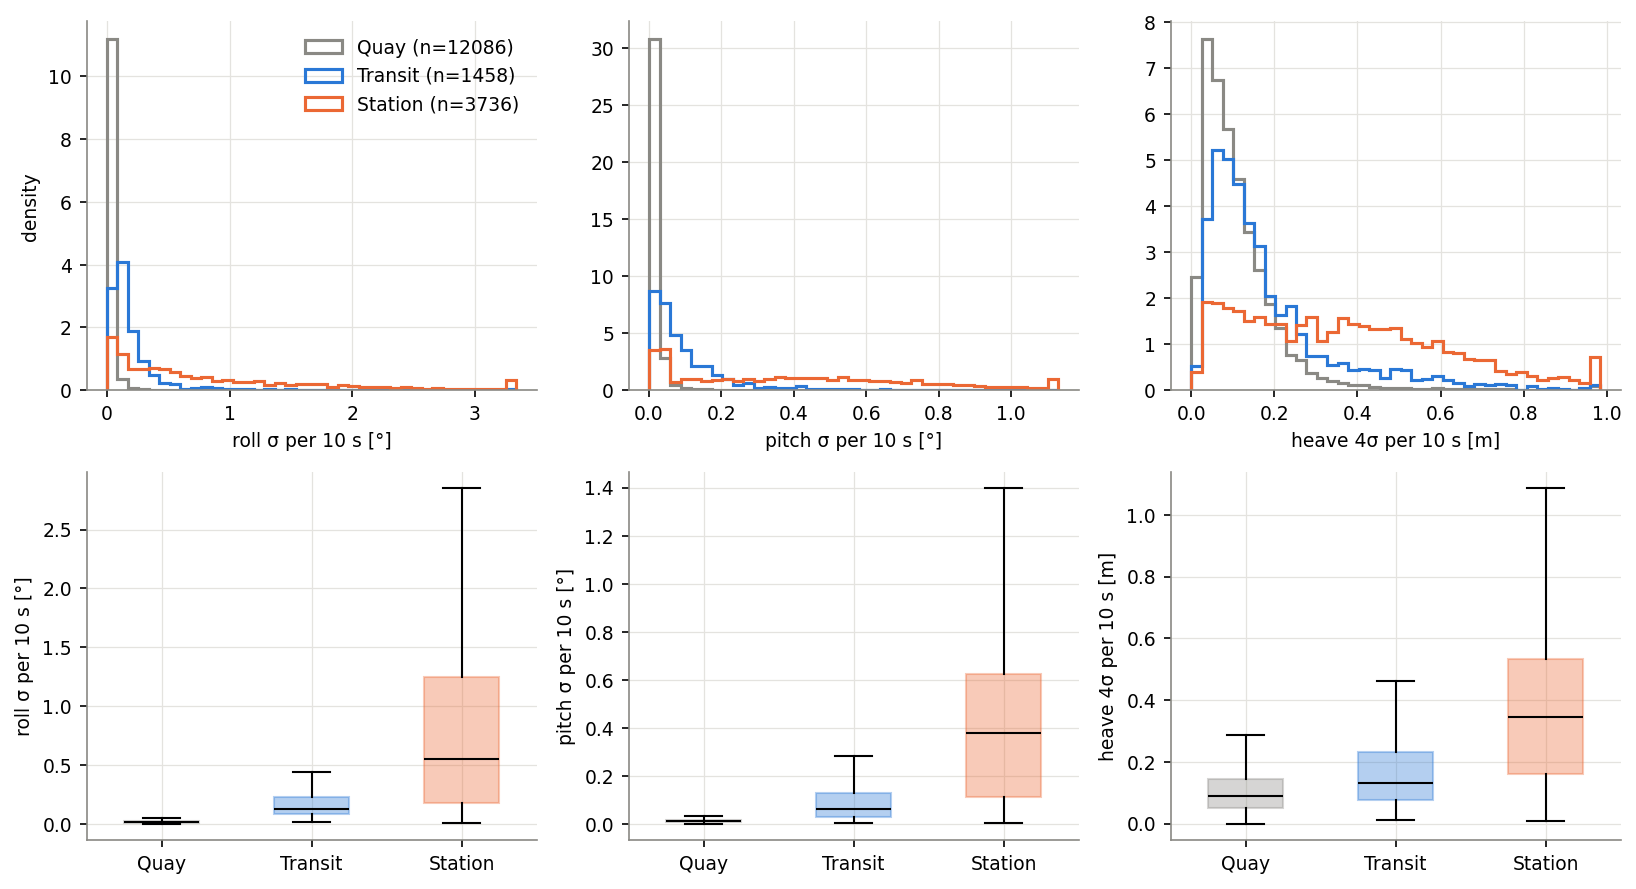
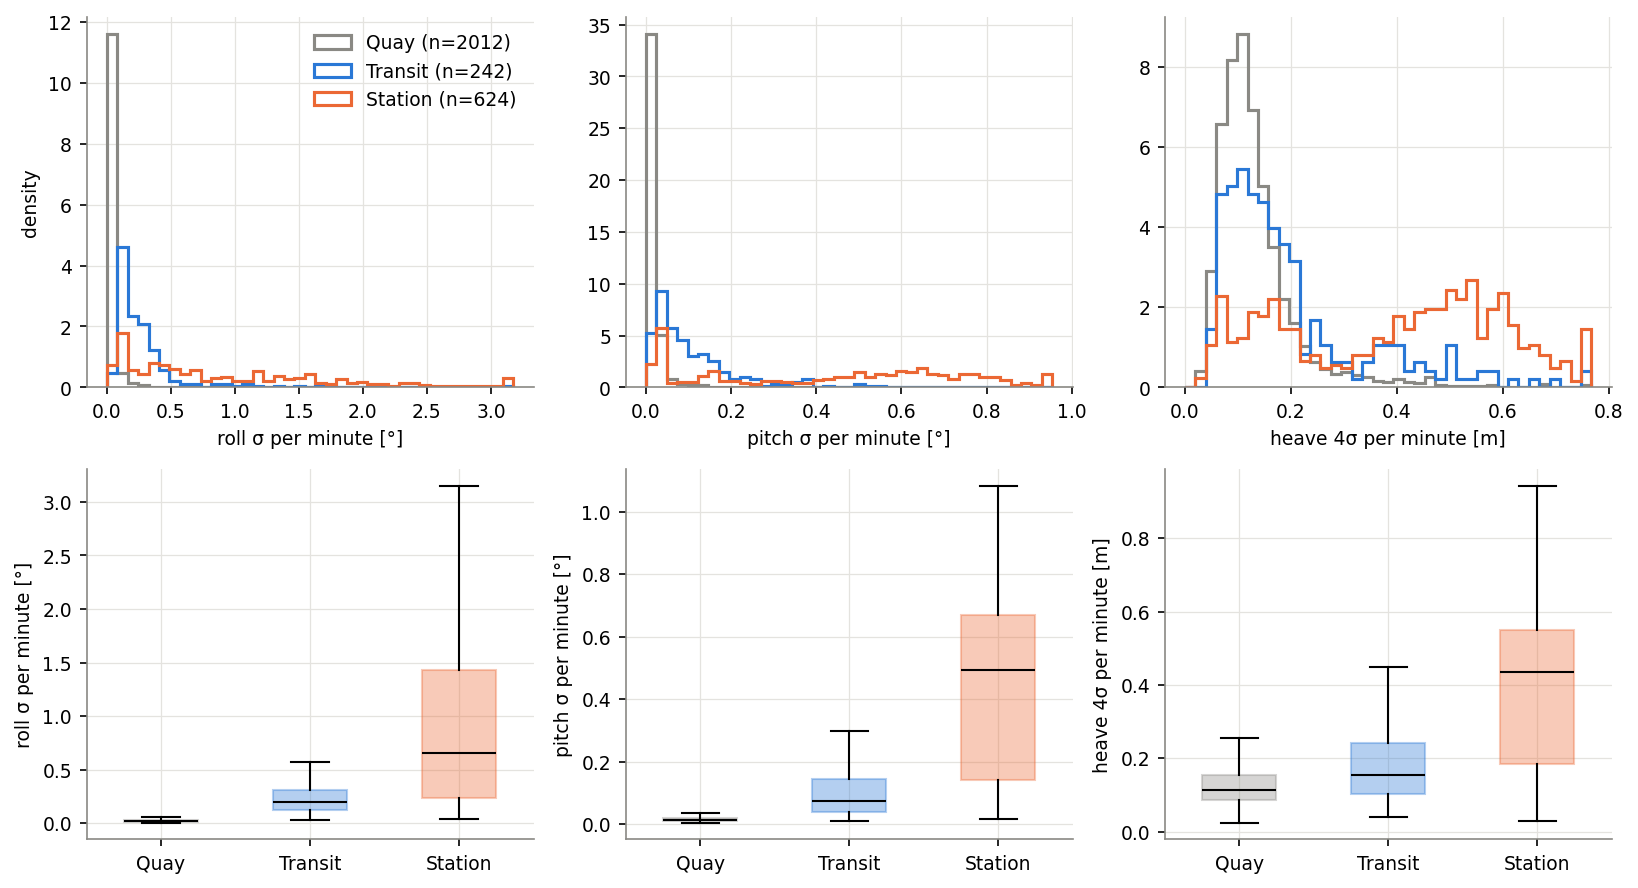
new plots

diff --git a/tmr12/eda.py b/tmr12/eda.py
@@ -15,6 +15,7 @@ import matplotlib.pyplot as plt
 import matplotlib.ticker
 import numpy as np
 import pandas as pd
+from scipy import signal
 
 from tmr12 import data
 
@@ -32,6 +33,8 @@ plt.rcParams.update({'figure.dpi': 110, 'savefig.dpi': 150, 'font.size': 9,
 
 M_PER_DEG_LAT = 111_320   # metres per degree latitude (good enough for a few hundred metres)
 MAX_BUOY_KM = 3           # a buoy further away than this does not describe the waves at the ship
+FS = 100                  # raw sample rate [Hz]
+HIGHPASS_S = 30           # keep motions faster than this period [s]: waves, not tide or slow GNSS drift
 
 
 def save(fig, name):
@@ -65,6 +68,70 @@ def local_xy(lat, lon, lat0, lon0):
     return north, east
 
 
+def minute_stats(s):
+    """1-minute windows (6 files = 6000 samples) for the overview figures.
+    Roll and pitch: std over the whole minute (data.pooled), so each value covers several wave periods,
+    unlike one 10 s file that holds only one or two. Heave: see the comment below; the exact wave
+    heave per block comes from the raw data (raw_block_motion)."""
+    rows = []
+    for t, g in s.groupby(s.time.dt.floor('1min')):
+        if len(g) < 6:
+            continue
+        rows.append({'time': t, 'speed_kn': g.speed_kn.mean(), 'heading': data.circmean(g.heading),
+                     'roll_std': data.pooled(g, 'roll'), 'pitch_std': data.pooled(g, 'pitch'),
+                     # heave: only the variation inside each 10 s file, so slow GNSS drift is left out
+                     'heave_hs_m': 4 * data.within(g, 'height') / 100, 'phase': g.phase.mode().iloc[0]})
+    m = pd.DataFrame(rows)
+    m['kind'] = m.phase.map(phase_kind)
+    return m
+
+
+# ---------- raw 100 Hz data ----------
+
+def raw_files(day_dir):
+    """All raw 10 s files of one day, indexed by their start time (file names are in local time)."""
+    files = sorted(Path(day_dir).glob('*/*.csv'))
+    t = pd.to_datetime([f.stem for f in files], format='%Y%m%d%H%M%S')
+    t = t.tz_localize(data.TZ, ambiguous='NaT', nonexistent='NaT')   # the DST night gives NaT
+    return pd.Series(files, index=t)[t.notna()]
+
+
+def raw_block(files, start, end):
+    """Glue the raw files of one block into one continuous 100 Hz time series."""
+    sel = files[(files.index >= start - pd.Timedelta('15s')) & (files.index < end)]
+    d = pd.concat([pd.read_csv(f, sep=';', header=None, names=data.COLS) for f in sel])
+    d = d[(d.t >= start.timestamp()) & (d.t < end.timestamp())]
+    return d.sort_values('t').reset_index(drop=True)
+
+
+def wave_part(x):
+    """Remove the mean, trend and everything slower than HIGHPASS_S (tide, GNSS drift, slow list)."""
+    sos = signal.butter(4, 1 / HIGHPASS_S, 'highpass', fs=FS, output='sos')
+    return signal.sosfiltfilt(sos, signal.detrend(np.asarray(x, dtype=float)))
+
+
+def spectrum(x):
+    """Power spectral density (Welch, 120 s segments) and the peak period between 2 and 25 s."""
+    f, psd = signal.welch(x, fs=FS, nperseg=120 * FS)
+    ok = (f > 1 / 25) & (f < 1 / 2)
+    return f, psd, 1 / f[ok][psd[ok].argmax()]
+
+
+def raw_block_motion(d):
+    """Wave-induced motion of one block from the raw 100 Hz data: std, heave 4σ and peak periods."""
+    out, spectra = {}, {}
+    for col, name in [('roll', 'roll'), ('pitch', 'pitch'), ('height_cm', 'heave')]:
+        x = wave_part(d[col] / 100 if col == 'height_cm' else d[col])   # height: cm -> m
+        f, psd, tp = spectrum(x)
+        spectra[name] = (f, psd)
+        out[f'{name}_tp_s'] = tp
+        if name == 'heave':
+            out['heave_hs_wave'] = 4 * x.std()
+        else:
+            out[f'{name}_std_wave'] = x.std()
+    return out, spectra
+
+
 # ---------- tables ----------
 
 def nearest_buoy(lat, lon, b):
@@ -73,12 +140,14 @@ def nearest_buoy(lat, lon, b):
     return d.index[0].split()[1], d.iloc[0]
 
 
-def dp_blocks(s, p, b):
+def dp_blocks(s, p, b, files=None, spectra=None):
     """One row per steady-heading block at a DP station: ship motion, footprint, waves and wind.
 
     The heading blocks come from data.heading_blocks, using the buoy nearest to each station.
     Added here: footprint size (from the 10 s mean positions) and wind from the buoy.
-    Stations further than MAX_BUOY_KM from every buoy keep their ship values, but get no waves/wind."""
+    Stations further than MAX_BUOY_KM from every buoy keep their ship values, but get no waves/wind.
+    With the raw files (files = raw_files(day dir)) the wave-induced motion is also computed from the
+    100 Hz data of the whole block; spectra (a dict) then collects the spectra per block."""
     rows = []
     for st in p[p.phase.str.startswith('Station')].itertuples():
         short, km = nearest_buoy(st.lat, st.lon, b)
@@ -96,6 +165,11 @@ def dp_blocks(s, p, b):
             if km > MAX_BUOY_KM:   # too far away: drop the buoy values for this block
                 short, w, wind_from = 'none', w.iloc[0:0], np.nan
                 row.update({k: np.nan for k in ['Hm0', 'Tp', 'Mdir', 'ThTp', 'rel_Mdir', 'rel_ThTp']})
+            if files is not None:
+                motion, spec = raw_block_motion(raw_block(files, blk.start, blk.end))
+                row.update(motion)
+                if spectra is not None:
+                    spectra[(blk.start, blk.end)] = spec
             rows.append({**row, 'buoy': short, 'buoy_km': km,
                          'footprint_r95_m': np.percentile(radius, 95),   # 95 % of positions inside this circle
                          'footprint_std_m': np.sqrt(north.var() + east.var()),
@@ -158,7 +232,8 @@ def fig_tracks(days, b):
 
 
 def fig_day_timeseries(day, s, p):
-    """One day at a glance: speed, heading, roll and heave over time, stations shaded."""
+    """One day at a glance: speed, heading, roll and heave over time (1-minute values), stations shaded."""
+    s = minute_stats(s)
     signals = [('speed_kn', 'speed [kn]'), ('heading', 'heading [°]'),
                ('roll_std', 'roll σ [°]'), ('heave_hs_m', 'heave 4σ [m]')]
     fig, axes = plt.subplots(len(signals), 1, figsize=(9, 7), sharex=True)
@@ -176,9 +251,10 @@ def fig_day_timeseries(day, s, p):
 
 
 def fig_univariate(s_all):
-    """Distribution of the ship motion per phase type: histograms (top) and box plots (bottom)."""
-    cols = [('roll_std', 'roll σ per 10 s [°]'), ('pitch_std', 'pitch σ per 10 s [°]'),
-            ('heave_hs_m', 'heave 4σ per 10 s [m]')]
+    """Distribution of the ship motion per phase type (1-minute values): histograms and box plots."""
+    s_all = pd.concat([minute_stats(g) for _, g in s_all.groupby('day')], ignore_index=True)
+    cols = [('roll_std', 'roll σ per minute [°]'), ('pitch_std', 'pitch σ per minute [°]'),
+            ('heave_hs_m', 'heave 4σ per minute [m]')]
     fig, axes = plt.subplots(2, len(cols), figsize=(11, 6))
     for j, (col, label) in enumerate(cols):
         hi = s_all[col].quantile(0.995)   # cut the 0.5 % largest so the bulk is visible
@@ -269,15 +345,17 @@ def fig_footprints(s_all, blocks):
 
 def fig_vs_heading(blocks):
     """Bivariate: footprint, roll and pitch per heading block vs the relative wave heading."""
-    cols = [('footprint_r95_m', 'footprint R95 [m]'), ('roll_std', 'roll σ [°]'), ('pitch_std', 'pitch σ [°]')]
+    cols = [('footprint_r95_m', 'footprint R95 [m]'), ('roll_std_wave', 'roll σ [°]'),
+            ('pitch_std_wave', 'pitch σ [°]'), ('heave_hs_wave', 'heave 4σ [m]')]
     blocks = blocks[blocks.buoy != 'none']
-    fig, axes = plt.subplots(1, len(cols), figsize=(11, 3.4))
+    fig, axes = plt.subplots(2, 2, figsize=(9, 6.5))
+    axes = axes.flatten()
     for ax, (col, label) in zip(axes, cols):
         for short, colour in BUOY_COLOURS.items():
             g = blocks[blocks.buoy == short]
             ax.scatter(g.abs_rel_wave, g[col], s=g.minutes * 1.5, color=colour, alpha=0.8,
                        edgecolor='white', lw=0.5, label=f'at buoy {short}')
-        ax.set(xlabel='|relative wave heading| [°]  (0 = head, 90 = beam)', ylabel=label, xlim=(-5, 185))
+        ax.set(xlabel='|relative wave heading| [°] (0 = head, 90 = beam)', ylabel=label, xlim=(-5, 185))
         ax.set_xticks([0, 45, 90, 135, 180])
     axes[0].legend(frameon=False)
     fig.tight_layout()
@@ -287,8 +365,9 @@ def fig_vs_heading(blocks):
 def fig_correlation(blocks):
     """Multivariate: correlation matrix of the heading-block variables."""
     cols = {'Hm0': 'Hm0', 'Tp': 'Tp', 'wind_ms': 'wind speed', 'abs_rel_wave': '|rel. wave dir.|',
-            'abs_rel_wind': '|rel. wind dir.|', 'roll_std': 'roll σ', 'pitch_std': 'pitch σ',
-            'heave_hs_m': 'heave 4σ', 'footprint_r95_m': 'footprint R95', 'heading_std_deg': 'heading σ',
+            'abs_rel_wind': '|rel. wind dir.|', 'roll_std_wave': 'roll σ', 'pitch_std_wave': 'pitch σ',
+            'heave_hs_wave': 'heave 4σ', 'heave_tp_s': 'heave peak period', 'footprint_r95_m': 'footprint R95',
+            'heading_std_deg': 'heading σ',
             'dist_km': 'dist. to buoy'}
     blocks = blocks[blocks.buoy != 'none']
     c = blocks[list(cols)].rename(columns=cols).corr(method='spearman')   # rank correlation: robust, few points
@@ -304,3 +383,25 @@ def fig_correlation(blocks):
     fig.colorbar(im, ax=ax, label='Spearman correlation')
     fig.tight_layout()
     return save(fig, '8_correlation.png')
+
+
+def fig_spectra(blocks, spectra):
+    """Roll, pitch and heave spectra of the heading blocks at buoy D (from the raw 100 Hz data),
+    coloured by the relative wave heading. Dashed line: mean buoy peak period Tp."""
+    blocks = blocks[blocks.buoy == 'D']
+    fig, axes = plt.subplots(1, 3, figsize=(11, 3.4))
+    cmap, norm = plt.get_cmap('viridis'), plt.Normalize(0, 180)
+    for blk in blocks.itertuples():
+        spec = spectra[(blk.start, blk.end)]
+        for ax, name in zip(axes, ['roll', 'pitch', 'heave']):
+            f, psd = spec[name]
+            ok = (f > 1 / 25) & (f < 0.5)
+            ax.plot(f[ok], psd[ok], lw=1, color=cmap(norm(blk.abs_rel_wave)))
+    units = {'roll': '°²/Hz', 'pitch': '°²/Hz', 'heave': 'm²/Hz'}
+    for ax, name in zip(axes, ['roll', 'pitch', 'heave']):
+        ax.axvline(1 / blocks.Tp.mean(), color=GREY, ls='--', lw=1)
+        ax.set(xlabel='frequency [Hz]', ylabel=f'{name} PSD [{units[name]}]')
+        ax.set_title(name, loc='left')
+    sm = plt.cm.ScalarMappable(cmap=cmap, norm=norm)
+    fig.colorbar(sm, ax=axes, shrink=0.8, label='|relative wave heading| [°]')
+    return save(fig, '9_motion_spectra.png')

diff --git a/tmr12/vis.py b/tmr12/vis.py
@@ -1,0 +1,120 @@
+"""Data visualisation for the DP part of the project (30-31 Oct 2023).
+
+Three figures, chosen for the project thesis on DP capability and DP footprints:
+  1. Motion rose: roll, pitch and heave against the relative wave heading, drawn like a DP capability plot.
+  2. Ship heave against buoy Hm0 with uncertainty bars: how far the ship can be used as a wave sensor.
+  3. Two time scales on DP: slow position excursions (what DP controls) next to fast wave motion (what it does not).
+
+Reads reports/eda/dp_heading_blocks.csv, so run eda.py first. Figures go to reports/vis/.
+"""
+import numpy as np
+import pandas as pd
+import matplotlib
+matplotlib.use('Agg')
+import matplotlib.pyplot as plt
+
+from tmr12 import data, eda
+
+OUT = data.ROOT / 'reports' / 'vis'
+NOISE_HS_M = 0.11   # heave 4σ measured at the quay: GNSS noise floor (EDA, 1-minute windows)
+DAY_COLOURS = {'2023-10-30': eda.BLUE, '2023-10-31': eda.ORANGE}
+
+
+def save(fig, name):
+    OUT.mkdir(parents=True, exist_ok=True)
+    path = OUT / name
+    fig.savefig(path, bbox_inches='tight')
+    plt.close(fig)
+    return path
+
+
+def load_blocks():
+    """Heading blocks from the EDA, with times as timestamps."""
+    blocks = pd.read_csv(eda.OUT / 'dp_heading_blocks.csv')
+    for col in ['start', 'end']:
+        blocks[col] = pd.to_datetime(blocks[col], utc=True).dt.tz_convert(data.TZ)
+    return blocks
+
+
+def fig_motion_rose(blocks):
+    """Polar plots of roll σ, pitch σ and heave 4σ against the relative wave heading (buoy D only).
+    0° = head seas at the top, waves from starboard to the right, like a DP capability plot."""
+    blocks = blocks[blocks.buoy == 'D']
+    cols = [('roll_std_wave', 'roll σ [°]'), ('pitch_std_wave', 'pitch σ [°]'), ('heave_hs_wave', 'heave 4σ [m]')]
+    fig, axes = plt.subplots(1, 3, figsize=(12, 4.3), subplot_kw={'projection': 'polar'})
+    for ax, (col, label) in zip(axes, cols):
+        for day, colour in DAY_COLOURS.items():
+            g = blocks[blocks.day == day]
+            ax.scatter(np.radians(g.rel_Mdir), g[col], s=g.minutes * 3, color=colour, alpha=0.85,
+                       edgecolor='white', lw=0.5, label=pd.Timestamp(day).strftime('%-d %b'))
+        ax.set_theta_zero_location('N')   # head seas at the top
+        ax.set_theta_direction(-1)         # clockwise: waves from starboard to the right
+        ax.set_thetagrids([0, 45, 90, 135, 180, 225, 270, 315],
+                          ['head', '45', 'beam\n(stb)', '135', 'following', '225', 'beam\n(port)', '315'])
+        ax.set_rlim(0, blocks[col].max() * 1.1)
+        ax.set_title(label, pad=18)
+    axes[0].legend(loc='lower left', bbox_to_anchor=(-0.25, -0.15), frameon=False, title='buoy D')
+    fig.tight_layout()
+    return save(fig, 'v1_motion_rose.png')
+
+
+def fig_heave_vs_buoy(blocks, b):
+    """Ship heave 4σ against buoy Hm0 per heading block, with uncertainty bars.
+    Buoy bar: lowest to highest 10-min Hm0 during the block (the sea state changes in time and space).
+    Ship bar: statistical uncertainty of a std estimated from N waves, about σ/sqrt(2N), N = duration / Tp.
+    Grey band: GNSS noise floor measured at the quay."""
+    blocks = blocks[blocks.buoy != 'none'].copy()
+    lo, hi = [], []
+    for blk in blocks.itertuples():
+        name = [n for n in b.buoy.unique() if n.split()[1] == blk.buoy][0]
+        w = b[(b.buoy == name) & (b.time > blk.start) & (b.time <= blk.end + pd.Timedelta('10min'))]
+        lo.append(w.Hm0.min())
+        hi.append(w.Hm0.max())
+    blocks['hm0_lo'], blocks['hm0_hi'] = lo, hi
+    n_waves = blocks.minutes * 60 / blocks.Tp
+    blocks['ship_err'] = blocks.heave_hs_wave / np.sqrt(2 * n_waves)
+
+    fig, ax = plt.subplots(figsize=(5.5, 5))
+    ax.axhspan(0, NOISE_HS_M, color=eda.GREY, alpha=0.2, lw=0, label=f'GNSS noise floor ({NOISE_HS_M} m)')
+    ax.plot([0, 1], [0, 1], color=eda.GREY, ls='--', lw=1, label='ship = buoy')
+    for short, colour in eda.BUOY_COLOURS.items():
+        g = blocks[blocks.buoy == short]
+        ax.errorbar(g.Hm0, g.heave_hs_wave, xerr=[g.Hm0 - g.hm0_lo, g.hm0_hi - g.Hm0], yerr=g.ship_err,
+                    fmt='o', ms=6, color=colour, ecolor=colour, elinewidth=1, capsize=2, label=f'buoy {short}')
+    ax.set(xlim=(0, 0.85), ylim=(0, 0.85), aspect='equal',
+           xlabel='buoy $H_{m0}$ [m]', ylabel='ship heave 4σ [m]')
+    ax.legend(frameon=False, loc='upper left')
+    return save(fig, 'v2_heave_vs_buoy.png')
+
+
+def fig_two_time_scales(blocks, days):
+    """Two blocks at buoy D (beam seas and following seas), each with:
+    left: position excursion from the block mean (10 s means, the slow motion DP works against);
+    right: two minutes of raw 100 Hz roll and heave (the wave motion DP cannot remove)."""
+    d = blocks[(blocks.buoy == 'D') & (blocks.day == '2023-10-31')]
+    picks = [d.loc[d.abs_rel_wave.sub(90).abs().idxmin()], d.loc[d.abs_rel_wave.idxmax()]]
+    fig, axes = plt.subplots(2, 2, figsize=(11, 5.5), gridspec_kw={'width_ratios': [1.4, 1]})
+    for row, blk in zip(axes, picks):
+        s = days[blk.day]
+        g = s[(s.time >= blk.start) & (s.time < blk.end)]
+        north, east = eda.local_xy(g.lat, g.lon, g.lat.mean(), g.lon.mean())
+        minutes = (g.time - blk.start).dt.total_seconds() / 60
+        row[0].plot(minutes, north, color=eda.BLUE, lw=1.2, label='north')
+        row[0].plot(minutes, east, color=eda.ORANGE, lw=1.2, label='east')
+        row[0].set(xlabel='minutes into block', ylabel='excursion [m]', ylim=(-1.2, 1.2))
+        row[0].set_title(f'heading {blk.heading:.0f}°, waves {blk.abs_rel_wave:.0f}° off the bow: '
+                         f'R95 = {blk.footprint_r95_m:.2f} m', loc='left', fontsize=9)
+
+        raw = eda.raw_block(eda.raw_files(data.days()[blk.day]), blk.start, blk.start + pd.Timedelta('2min'))
+        t = raw.t - raw.t.iloc[0]
+        roll = eda.wave_part(raw.roll)
+        heave = eda.wave_part(raw.height_cm / 100)
+        row[1].plot(t, roll, color=eda.BLUE, lw=0.8, label='roll [°]')
+        row[1].plot(t, heave * 10, color=eda.AQUA, lw=0.8, label='heave [dm]')
+        row[1].set(xlabel='seconds', ylim=(-8, 8))
+        row[1].set_title(f'roll σ = {blk.roll_std_wave:.1f}°, heave 4σ = {blk.heave_hs_wave:.2f} m',
+                         loc='left', fontsize=9)
+    axes[0, 0].legend(frameon=False, ncol=2, loc='upper right')
+    axes[0, 1].legend(frameon=False, ncol=2, loc='upper right')
+    fig.tight_layout()
+    return save(fig, 'v3_two_time_scales.png')

diff --git a/eda.py b/eda.py
@@ -37,7 +37,10 @@ if __name__ == '__main__':
         eda.OUT / 'ship_quality.csv')
     data.buoy_checks(b).to_csv(eda.OUT / 'buoy_quality.csv', index=False)
     eda.summary_stats(s_all).to_csv(eda.OUT / 'summary_stats.csv')
-    blocks = pd.concat([eda.dp_blocks(days[d], phases[d], b).assign(day=d) for d in days], ignore_index=True)
+    # Steady-heading blocks; the motion is also computed from the raw 100 Hz data of each whole block
+    spectra = {}
+    blocks = pd.concat([eda.dp_blocks(days[d], phases[d], b, eda.raw_files(data.days()[d]), spectra).assign(day=d)
+                        for d in days], ignore_index=True)
     blocks.round(3).to_csv(eda.OUT / 'dp_heading_blocks.csv', index=False)
     print(f'{len(blocks)} steady-heading blocks at the DP stations')
 
@@ -51,3 +54,4 @@ if __name__ == '__main__':
     print(eda.fig_footprints(s_all, blocks))
     print(eda.fig_vs_heading(blocks))
     print(eda.fig_correlation(blocks))
+    print(eda.fig_spectra(blocks, spectra))

diff --git a/vis.py b/vis.py
@@ -1,0 +1,28 @@
+"""Make the data-visualisation figures: python vis.py  (run eda.py first)
+
+Writes PNG figures to reports/vis/. Ship data folder: set SHIP_DIR as in eda.py.
+"""
+from pathlib import Path
+
+import pandas as pd
+
+from tmr12 import data, eda, vis
+
+SHIP_DIR = None   # e.g. Path('/Users/<you>/Downloads/DP data')
+
+if __name__ == '__main__':
+    import os
+    folder = SHIP_DIR or os.environ.get('TMR12_SHIP_DIR')
+    if folder:
+        data.RAW_SHIP = Path(folder)
+
+    b = data.load_buoys()
+    blocks = vis.load_blocks()
+    days = {}
+    for day in data.days():
+        s = data.load_day(day)
+        days[day] = eda.add_phase_column(s, data.phases(s))
+
+    print(vis.fig_motion_rose(blocks))
+    print(vis.fig_heave_vs_buoy(blocks, b))
+    print(vis.fig_two_time_scales(blocks, days))
